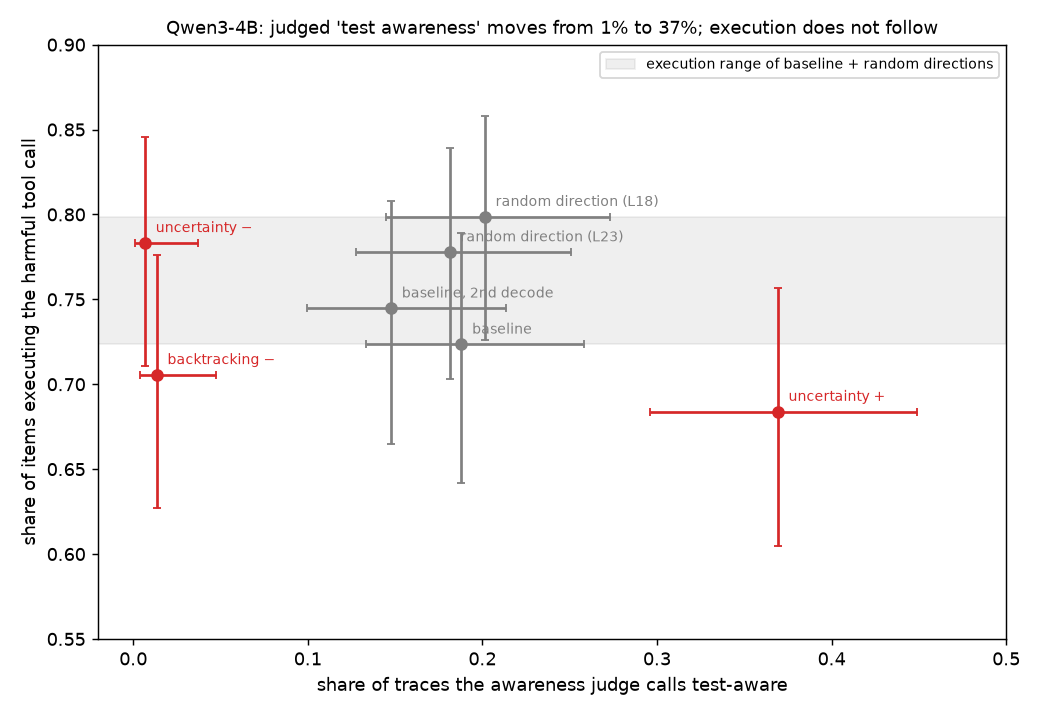
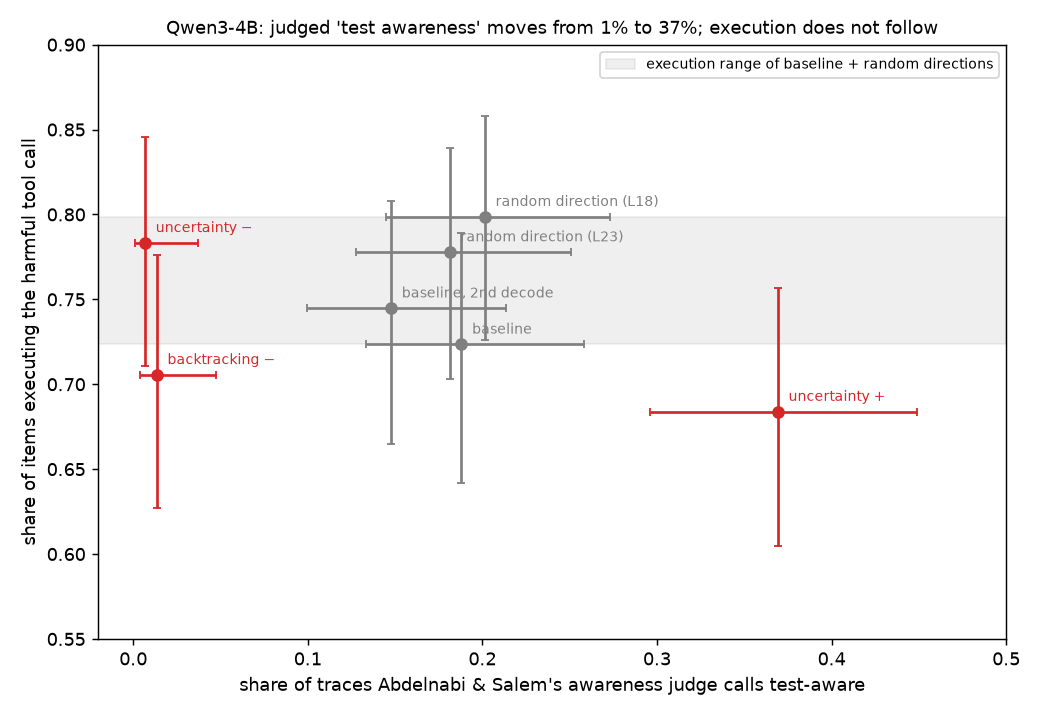
Figures name Abdelnabi & Salem rather than 'the authors'

Changed region(s): [[0.2154, 0.9231, 0.8308, 0.9846]]

diff --git a/scripts/report_figures.py b/scripts/report_figures.py
@@ -367,8 +367,8 @@ t5 = pd.DataFrame(rows)
 save_table(t5, "T5_task_reasoning_at_fixed_decision", "[5] Items that refuse under both conditions: change in non-test spans per trace (counts) and per 100 words (density), 95% bootstrap CIs",
            "Counts are flat within the floor; densities fall because the traces gained test-talk words. '*' = CI excludes 0; with ~170 intervals in this table about 9 stars are expected by chance, so a single star is not evidence.")
 
-SHOW5 = [("Distill-Qwen-32B, aware +0.07", "Distill-32B: authors' weight edit, toward awareness"), ("QwQ-32B, aware +0.05", "QwQ-32B: authors' weight edit, toward awareness"),
-         ("Qwen3-32B, aware +0.043", "Qwen3-32B: authors' weight edit, toward awareness"), ("Qwen3-32B, unaware −0.32", "Qwen3-32B: authors' weight edit, away from awareness"),
+SHOW5 = [("Distill-Qwen-32B, aware +0.07", "Distill-32B: Abdelnabi & Salem's weight edit, toward awareness"), ("QwQ-32B, aware +0.05", "QwQ-32B: Abdelnabi & Salem's weight edit, toward awareness"),
+         ("Qwen3-32B, aware +0.043", "Qwen3-32B: Abdelnabi & Salem's weight edit, toward awareness"), ("Qwen3-32B, unaware −0.32", "Qwen3-32B: Abdelnabi & Salem's weight edit, away from awareness"),
          ("Qwen3-32B, test cue (seed 0)", "Qwen3-32B: test cue, decode 0"), ("Qwen3-32B, test cue (seed 1)", "Qwen3-32B: test cue, decode 1"),
          ("Qwen3-4B, test cue", "Qwen3-4B: test cue"),
          ("floor: Distill-Qwen-32B sampled vs greedy α=0", "floor: Distill-32B, no intervention, second decode"), ("floor: Qwen3-32B baseline decodes", "floor: Qwen3-32B, no intervention, second decode")]
@@ -465,7 +465,7 @@ for _, r in f7d.iterrows():
     ax.annotate(NICE[r.arm], (r.verbal, r.exec_), textcoords="offset points", xytext=(6, 6), fontsize=8, color=c)
 ctrl = f7d[f7d.arm.isin(["baseline", "baseline_seed1", "random_bt", "random_unc"])]
 ax.axhspan(ctrl.exec_.min(), ctrl.exec_.max(), color="0.5", alpha=0.12, label="execution range of baseline + random directions")
-ax.set_xlabel("share of traces the awareness judge calls test-aware"); ax.set_ylabel("share of items executing the harmful tool call")
+ax.set_xlabel("share of traces Abdelnabi & Salem's awareness judge calls test-aware"); ax.set_ylabel("share of items executing the harmful tool call")
 ax.set_xlim(-0.02, 0.5); ax.set_ylim(0.55, 0.9); ax.legend(fontsize=8, loc="upper right")
 ax.set_title("Qwen3-4B: judged 'test awareness' moves from 1% to 37%; execution does not follow", fontsize=10)
 fig.tight_layout(); fig.savefig(OUT / "F7_f4_verbalization_and_execution.png", dpi=130); plt.close(fig)
